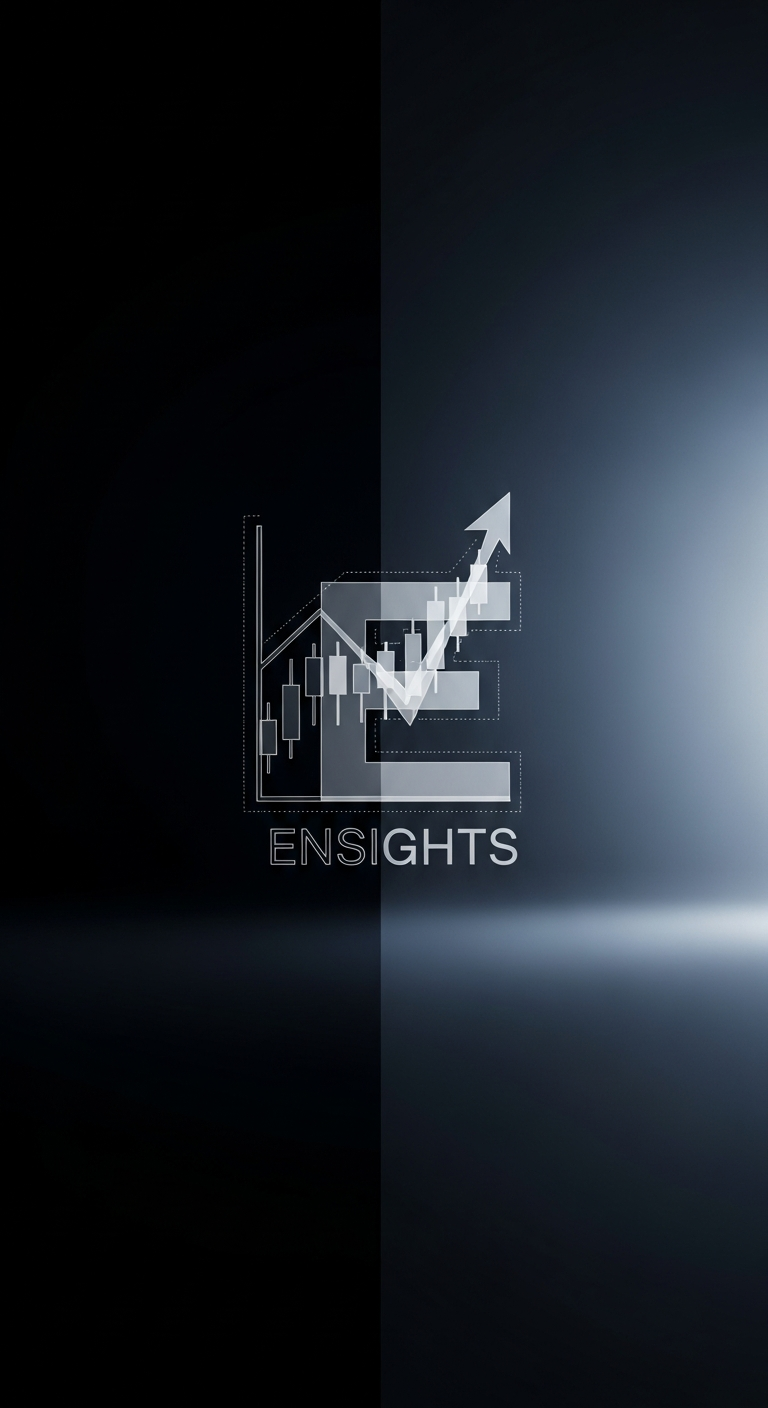
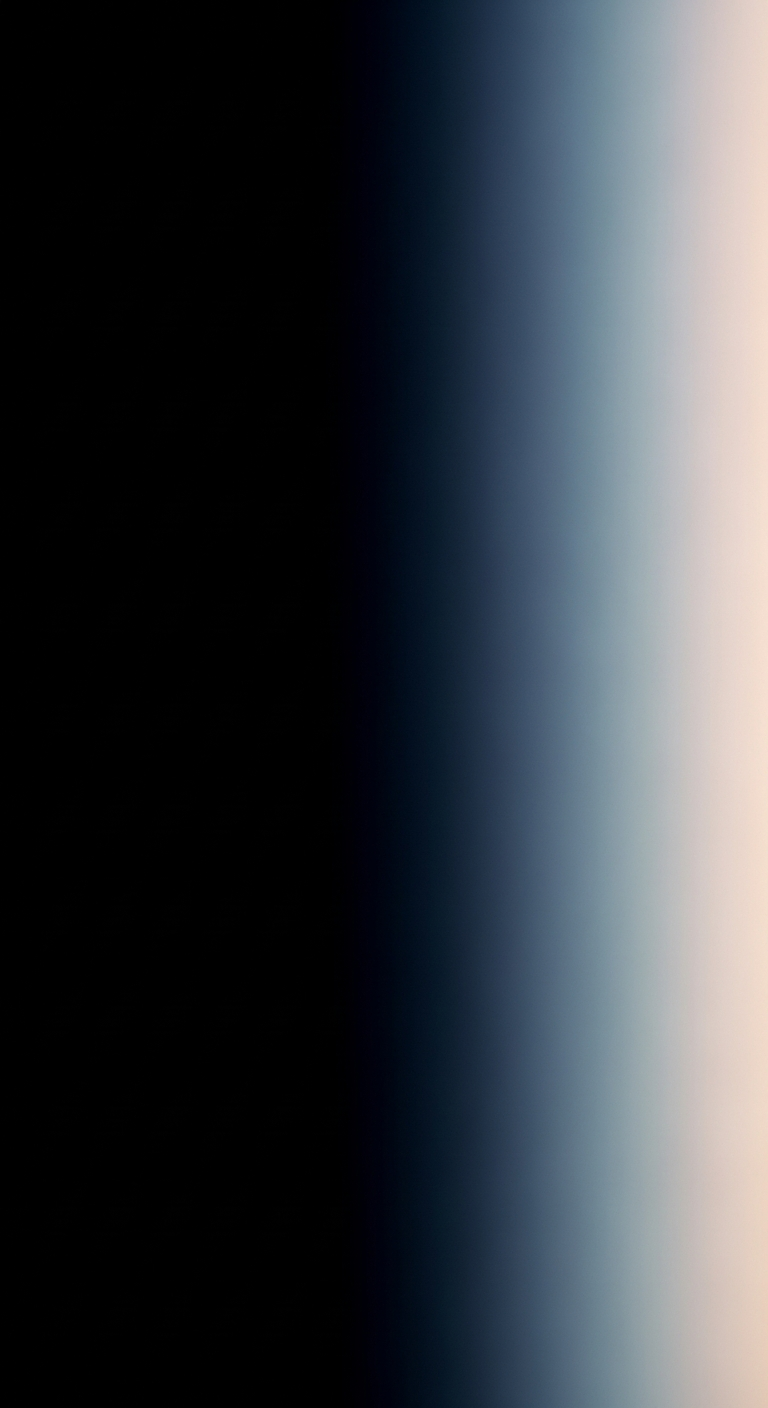
Update hero image with new branding and layout elements
Adjusted the background gradient and added centered "iE" logo with "Investor Ensights" wordmark to the hero image component.

Replit-Commit-Author: Agent
Replit-Commit-Session-Id: 5d0a79f2-c8e1-4e9f-a7fe-6bc079b6d8f2
Replit-Commit-Checkpoint-Type: full_checkpoint
Replit-Commit-Event-Id: b9d19611-ebf8-4ef7-a043-586f3c59ab9f
Replit-Commit-Screenshot-Url: https://storage.googleapis.com/screenshot-production-us-central1/5fcbaff0-434d-4f05-b7d5-5ca4f31f0425/5d0a79f2-c8e1-4e9f-a7fe-6bc079b6d8f2/RtgwqAk
Replit-Helium-Checkpoint-Created: true

diff --git a/components/homepage/image-pane.tsx b/components/homepage/image-pane.tsx
@@ -16,13 +16,47 @@ export default function ImagePane() {
           backgroundRepeat: "no-repeat",
         }}
       />
+
       <div
         className="absolute inset-0 pointer-events-none"
         style={{
           background:
-            "linear-gradient(90deg, rgba(0,0,0,0.35) 0%, rgba(0,0,0,0) 35%, rgba(0,0,0,0) 100%)",
+            "linear-gradient(90deg, rgba(0,0,0,0.45) 0%, rgba(0,0,0,0.15) 40%, rgba(0,0,0,0) 100%)",
         }}
       />
+
+      <div className="relative z-[1] flex h-full w-full items-center justify-center">
+        <div className="flex flex-col items-center">
+          <span
+            className="select-none leading-none tracking-tight"
+            style={{
+              fontFamily: "ui-serif, Georgia, 'Times New Roman', serif",
+              fontWeight: 700,
+              fontSize: "clamp(180px, 22vw, 320px)",
+              color: "rgba(255,255,255,0.78)",
+              textShadow:
+                "0 0 60px rgba(255,255,255,0.18), 0 0 120px rgba(140,180,220,0.12)",
+            }}
+            data-testid="text-hero-mark"
+          >
+            iE
+          </span>
+          <span
+            className="mt-6 select-none uppercase"
+            style={{
+              fontFamily:
+                "ui-sans-serif, system-ui, -apple-system, 'Segoe UI', sans-serif",
+              fontWeight: 500,
+              fontSize: "clamp(13px, 1.1vw, 16px)",
+              letterSpacing: "0.42em",
+              color: "rgba(255,255,255,0.55)",
+            }}
+            data-testid="text-hero-wordmark"
+          >
+            Investor Ensights
+          </span>
+        </div>
+      </div>
     </div>
   )
 }